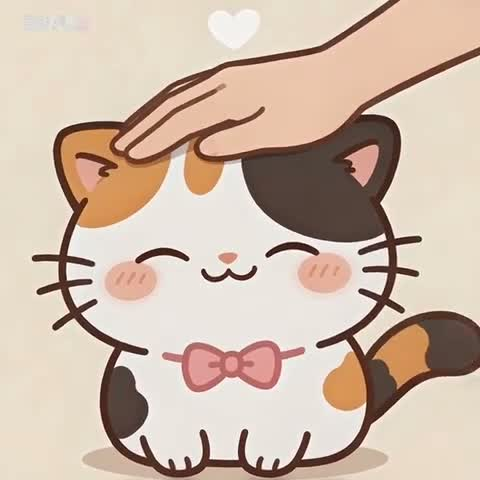
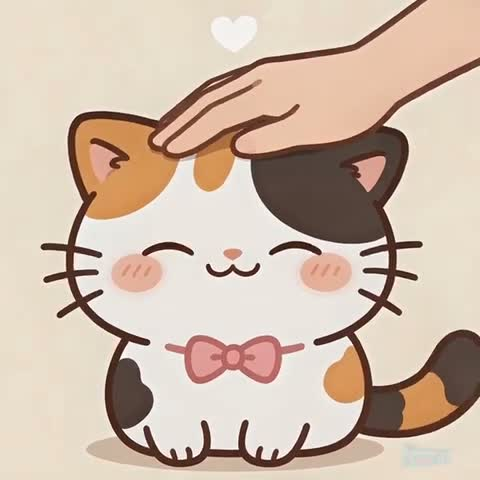
三花猫专属动作图：抚摸/玩耍/洗澡使用用户新视频提取帧

diff --git a/index.html b/index.html
@@ -1069,9 +1069,9 @@ const Pet = {
           happy:'images/tricolor_happy.jpg?v=2',
           sad:'images/tricolor_sad.jpg?v=2',
           feed:'images/tricolor_feed.jpg?v=2',
-          touch:'images/tricolor_touch.jpg?v=5',
-          play:'images/tricolor_happy.jpg?v=5',
-          wash:'images/tricolor_wash.jpg?v=5'
+          touch:'images/tricolor_touch.jpg?v=6',
+          play:'images/tricolor_play.jpg?v=6',
+          wash:'images/tricolor_wash.jpg?v=6'
         },
         desc:'可爱的小三花，戴粉色蝴蝶结，毛色由黄白黑相间。',
         cost:150,attrs:{饱食:'中',亲密:'高',攻击:'无',防御:'中'}
